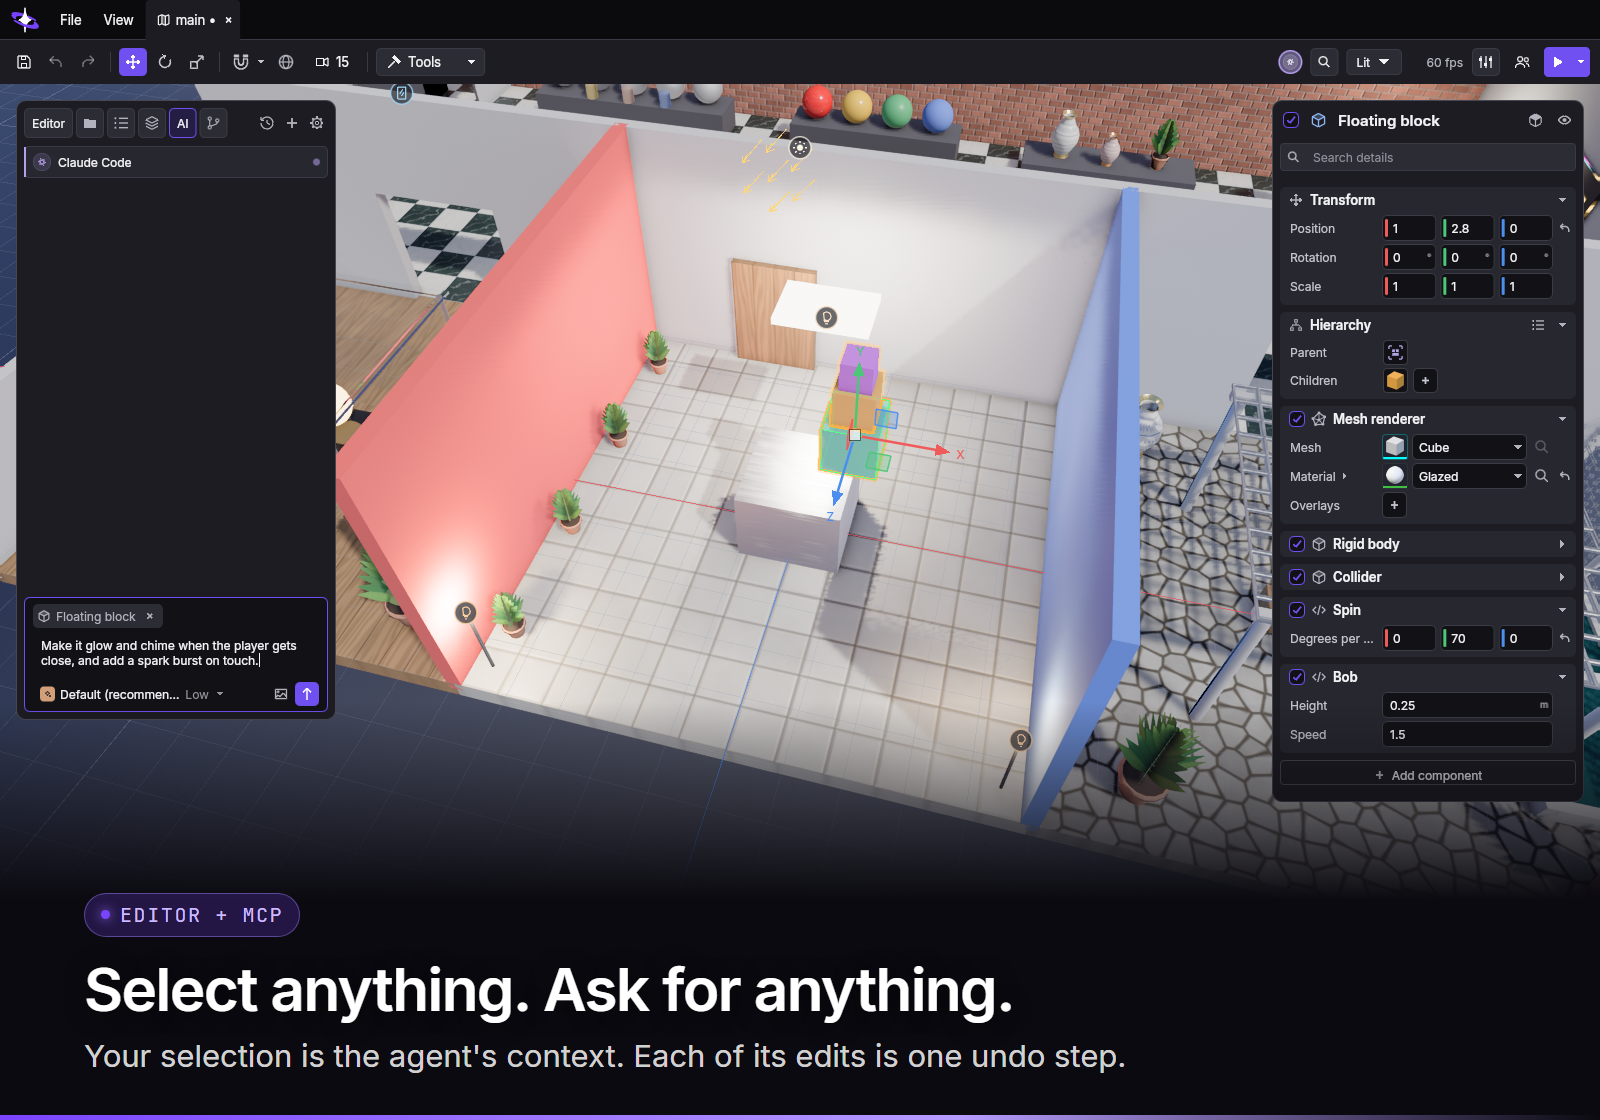
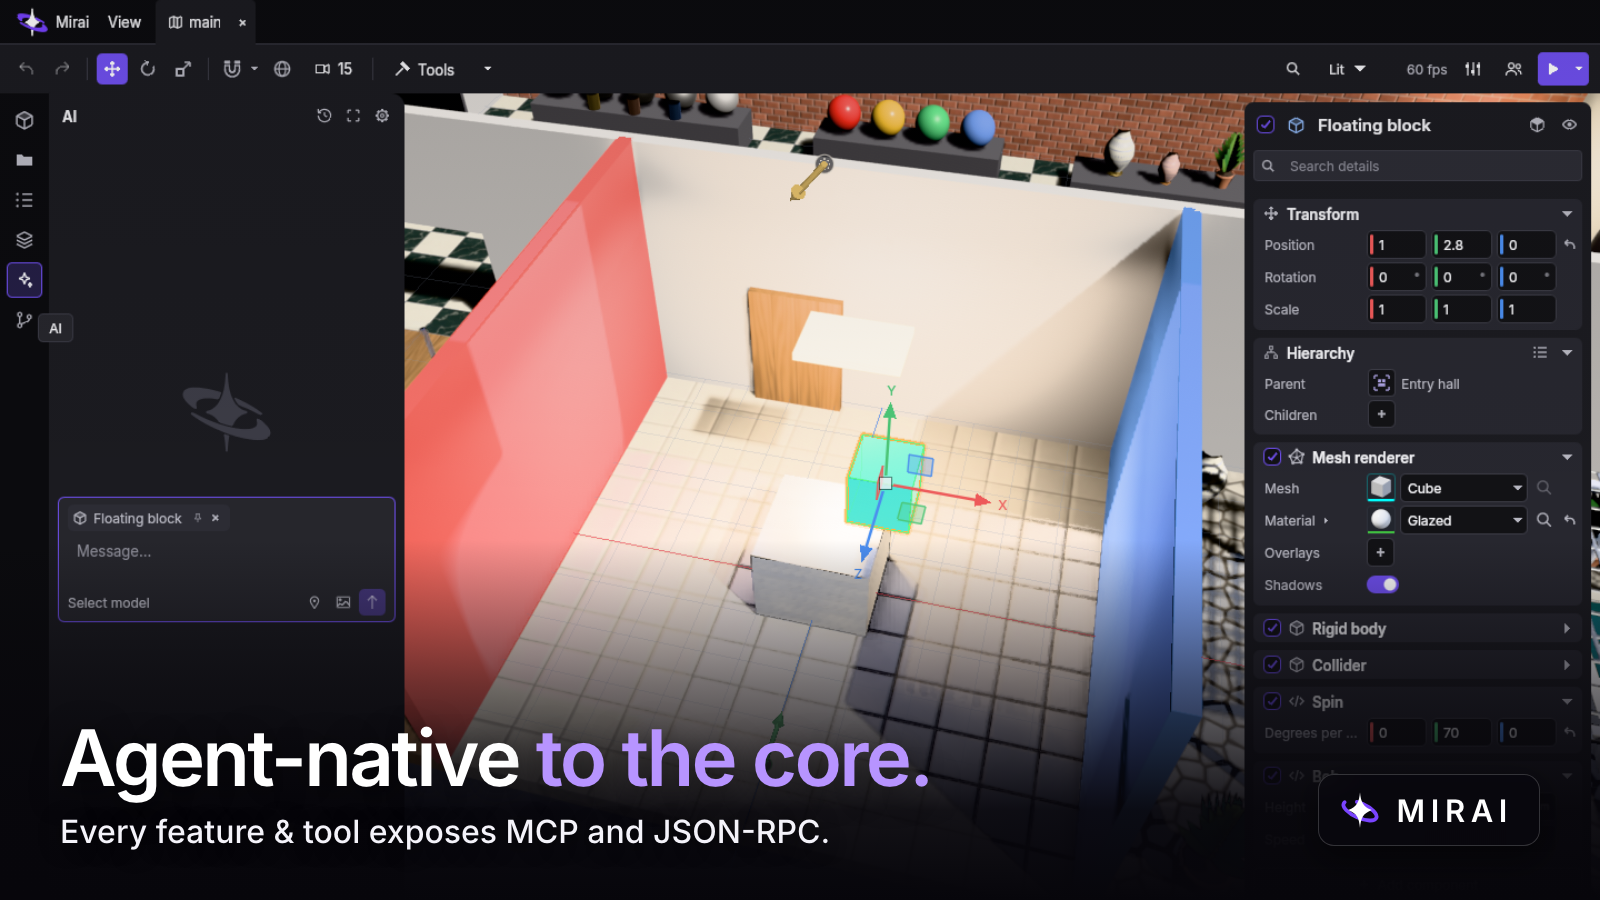
Refresh README media with current editor, live collaboration, and church lighting captures

diff --git a/README.md b/README.md
@@ -36,8 +36,10 @@
 
 Mirai is a native 3D engine and editor where people and AI agents build the same game, in the
 same scene, at the same time. Connect your favorite agent inside the editor, or connect it
-externally via MCP or JSON-RPC.  <p align="center">
-  <img src=".github/media/agents.png" alt="Three AI agents working in the Mirai editor"
+externally via MCP or JSON-RPC.
+
+<p align="center">
+  <img src=".github/media/collaboration.png" alt="Live collaboration in the Mirai editor"
     width="100%">
 </p>
 
